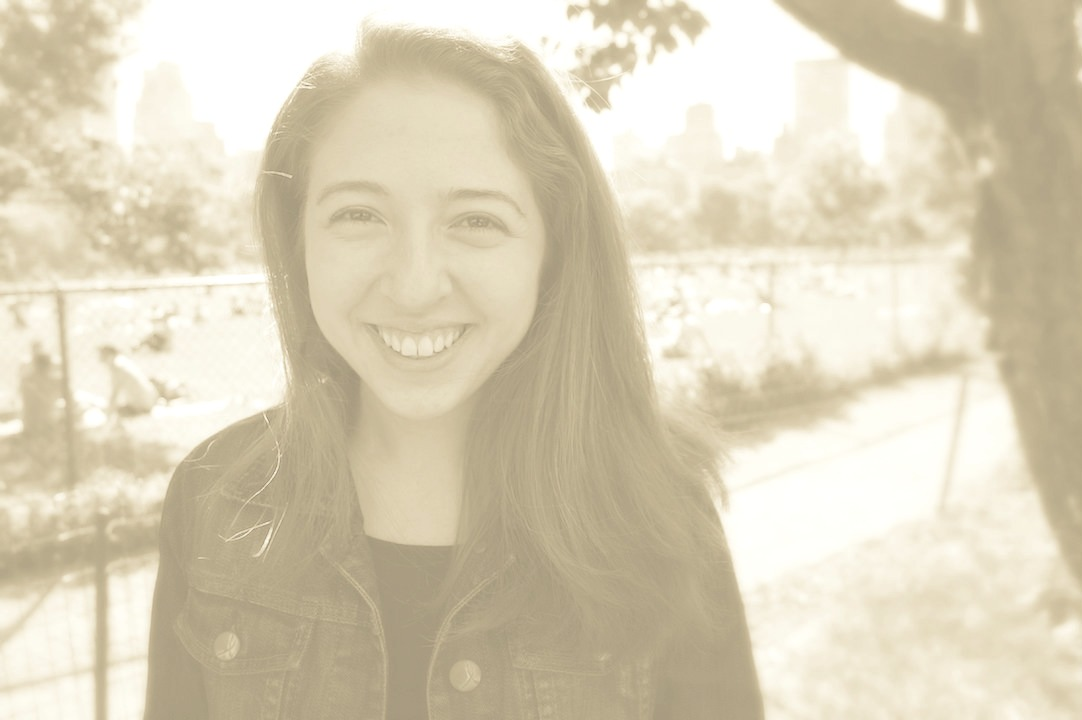
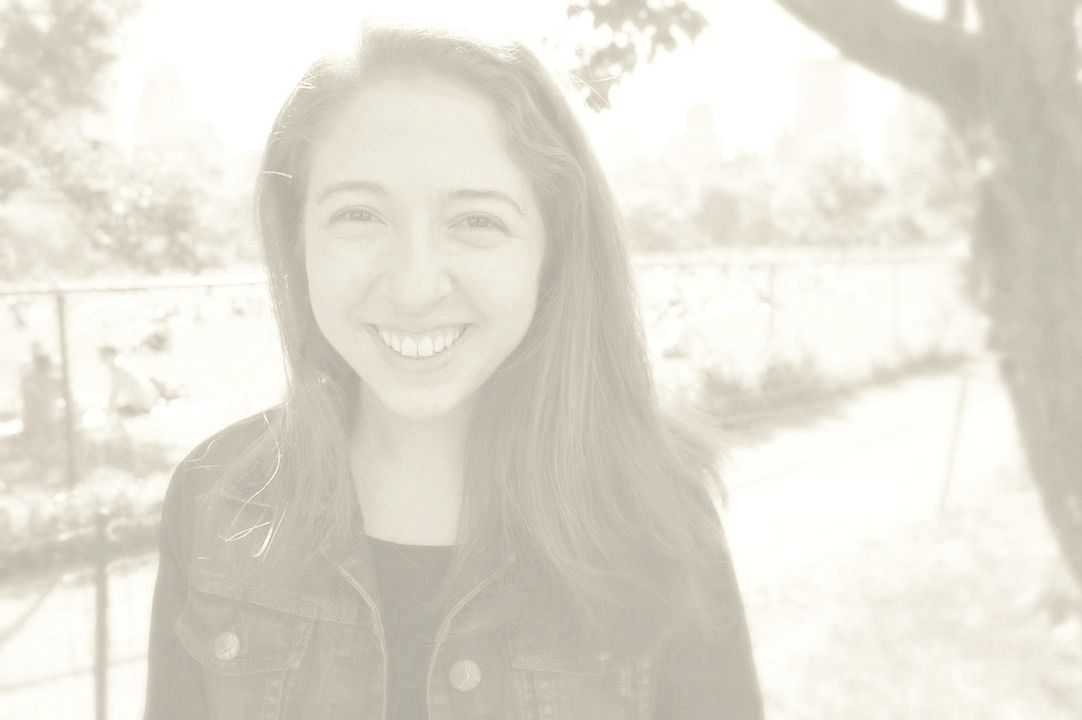
changing position of tagline & change background photo slightly

diff --git a/public/css/nicole.css b/public/css/nicole.css
@@ -31,7 +31,7 @@ h3 {
 	text-align: center;
 	padding: 5%;
 	position: absolute;
-	top: 500px;
+	top: 350px;
 }
 
 .btn-social-icon {
